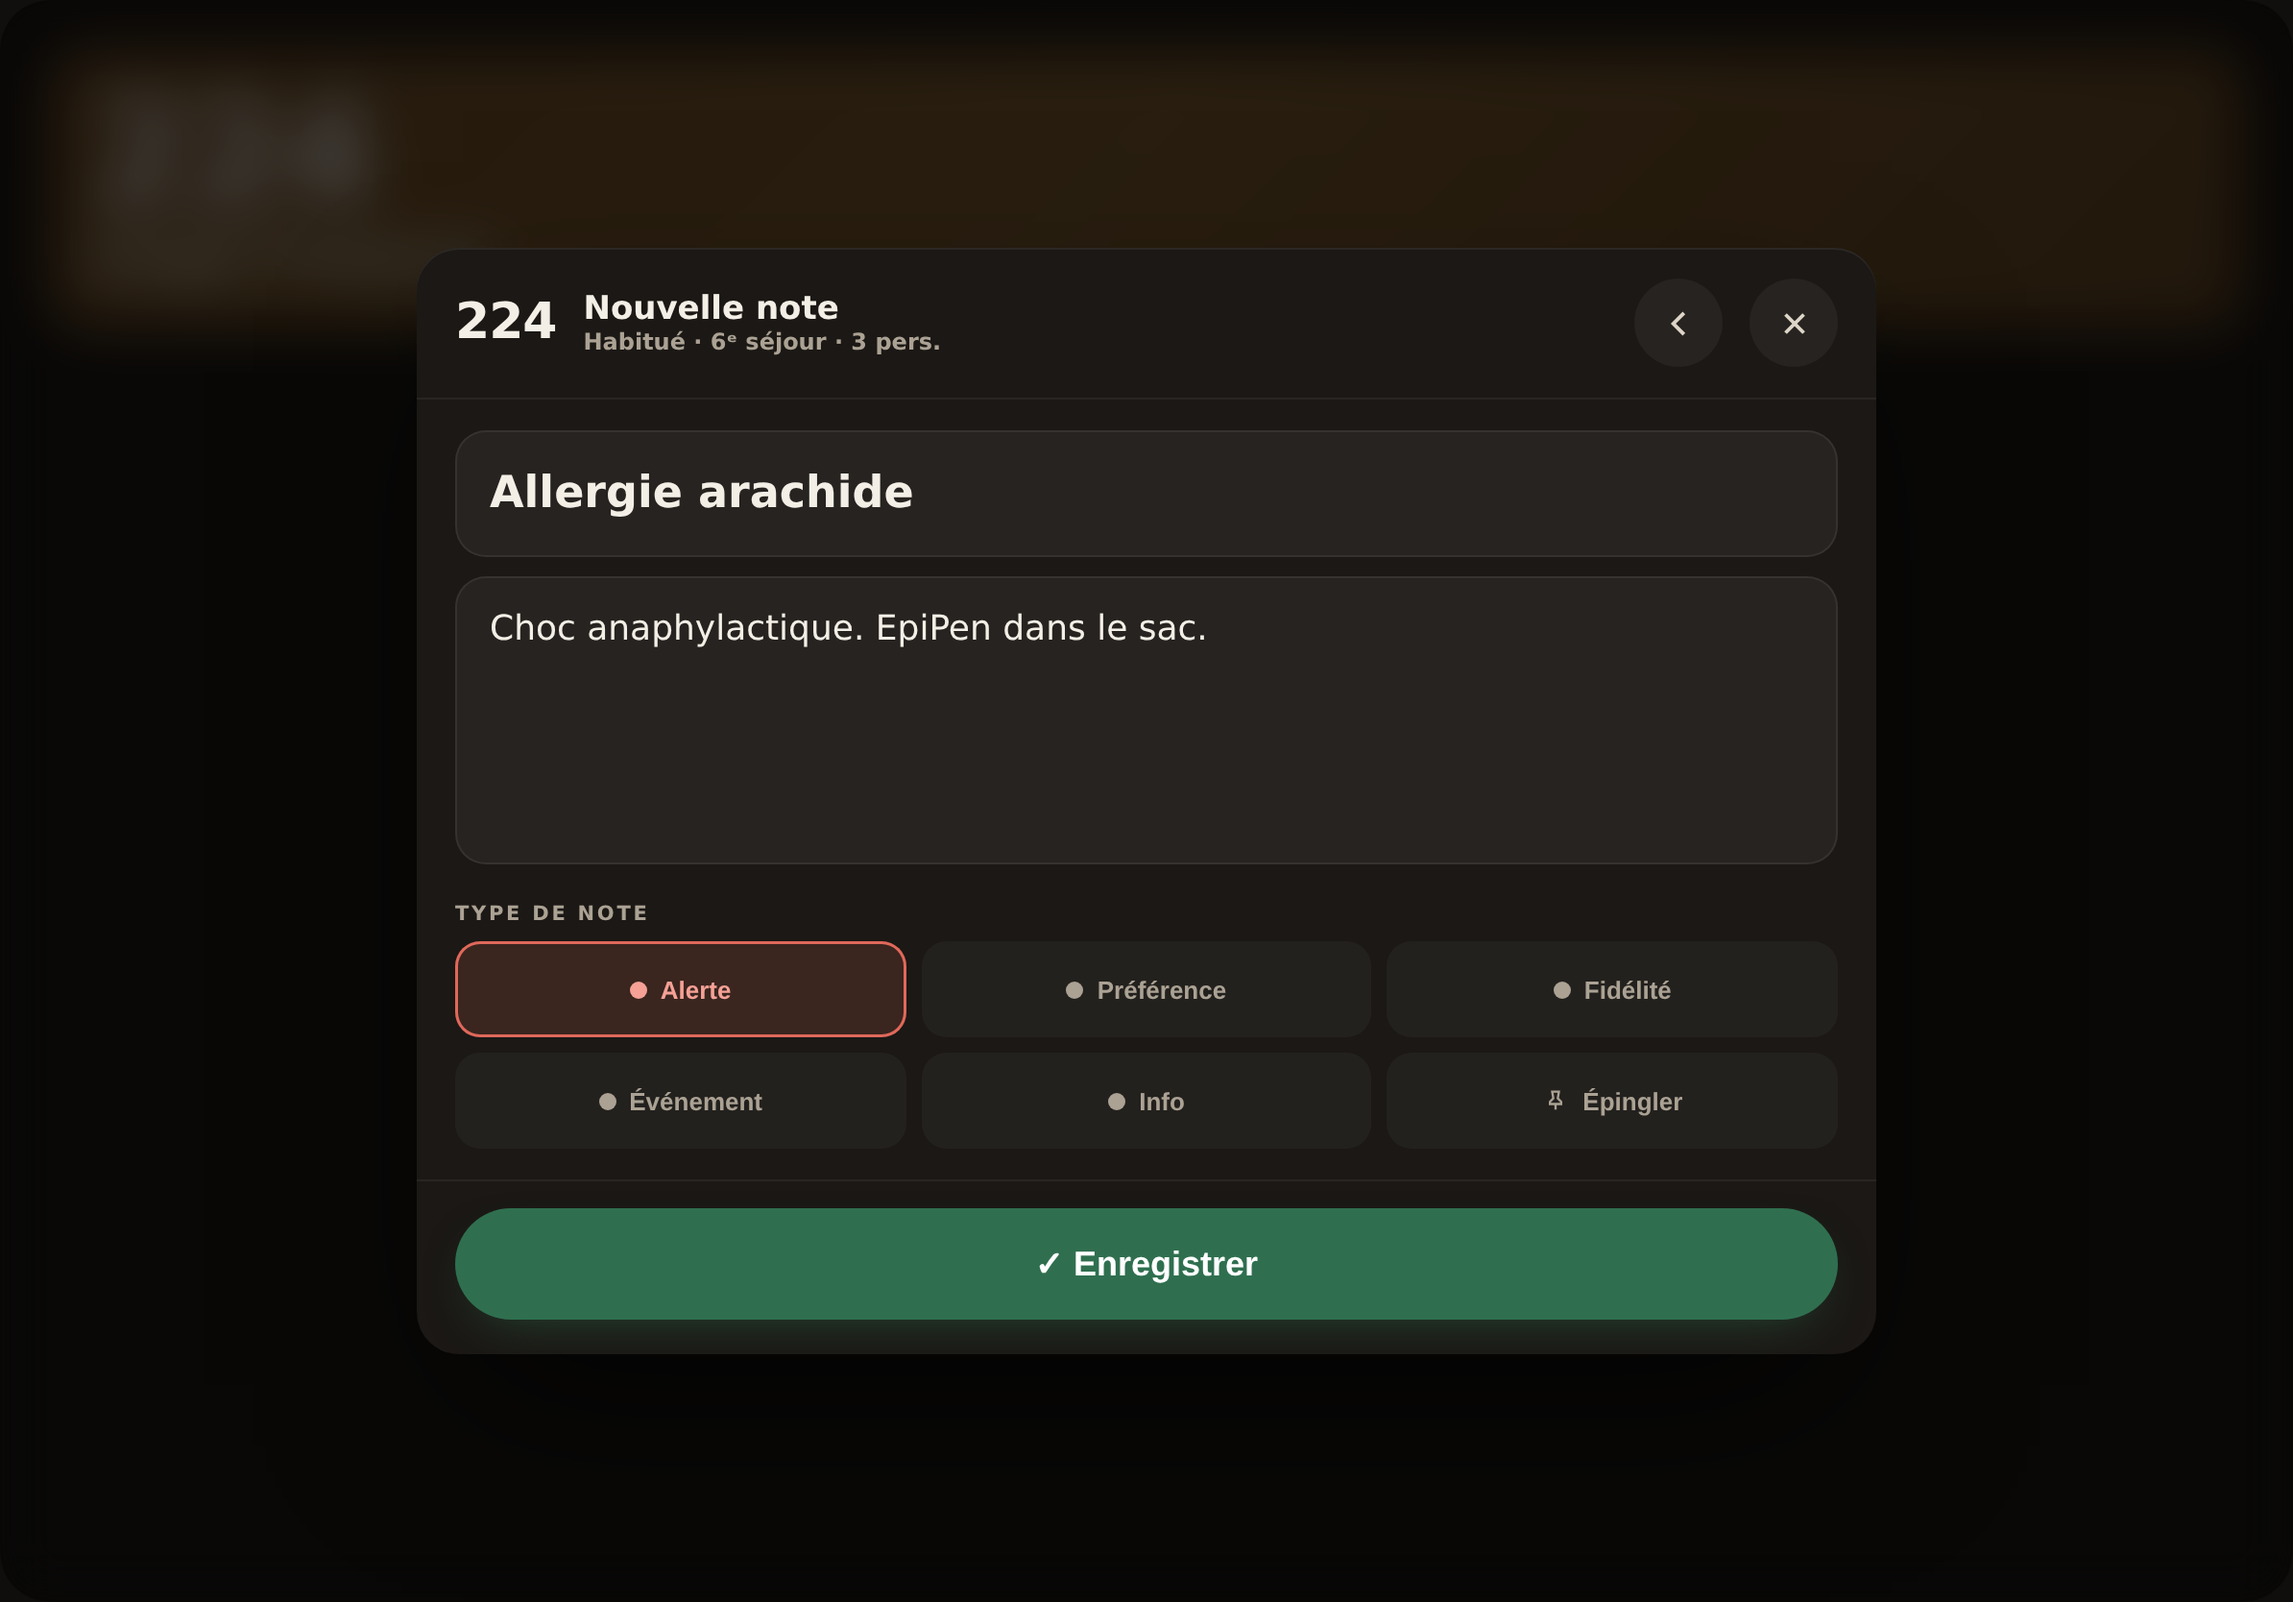
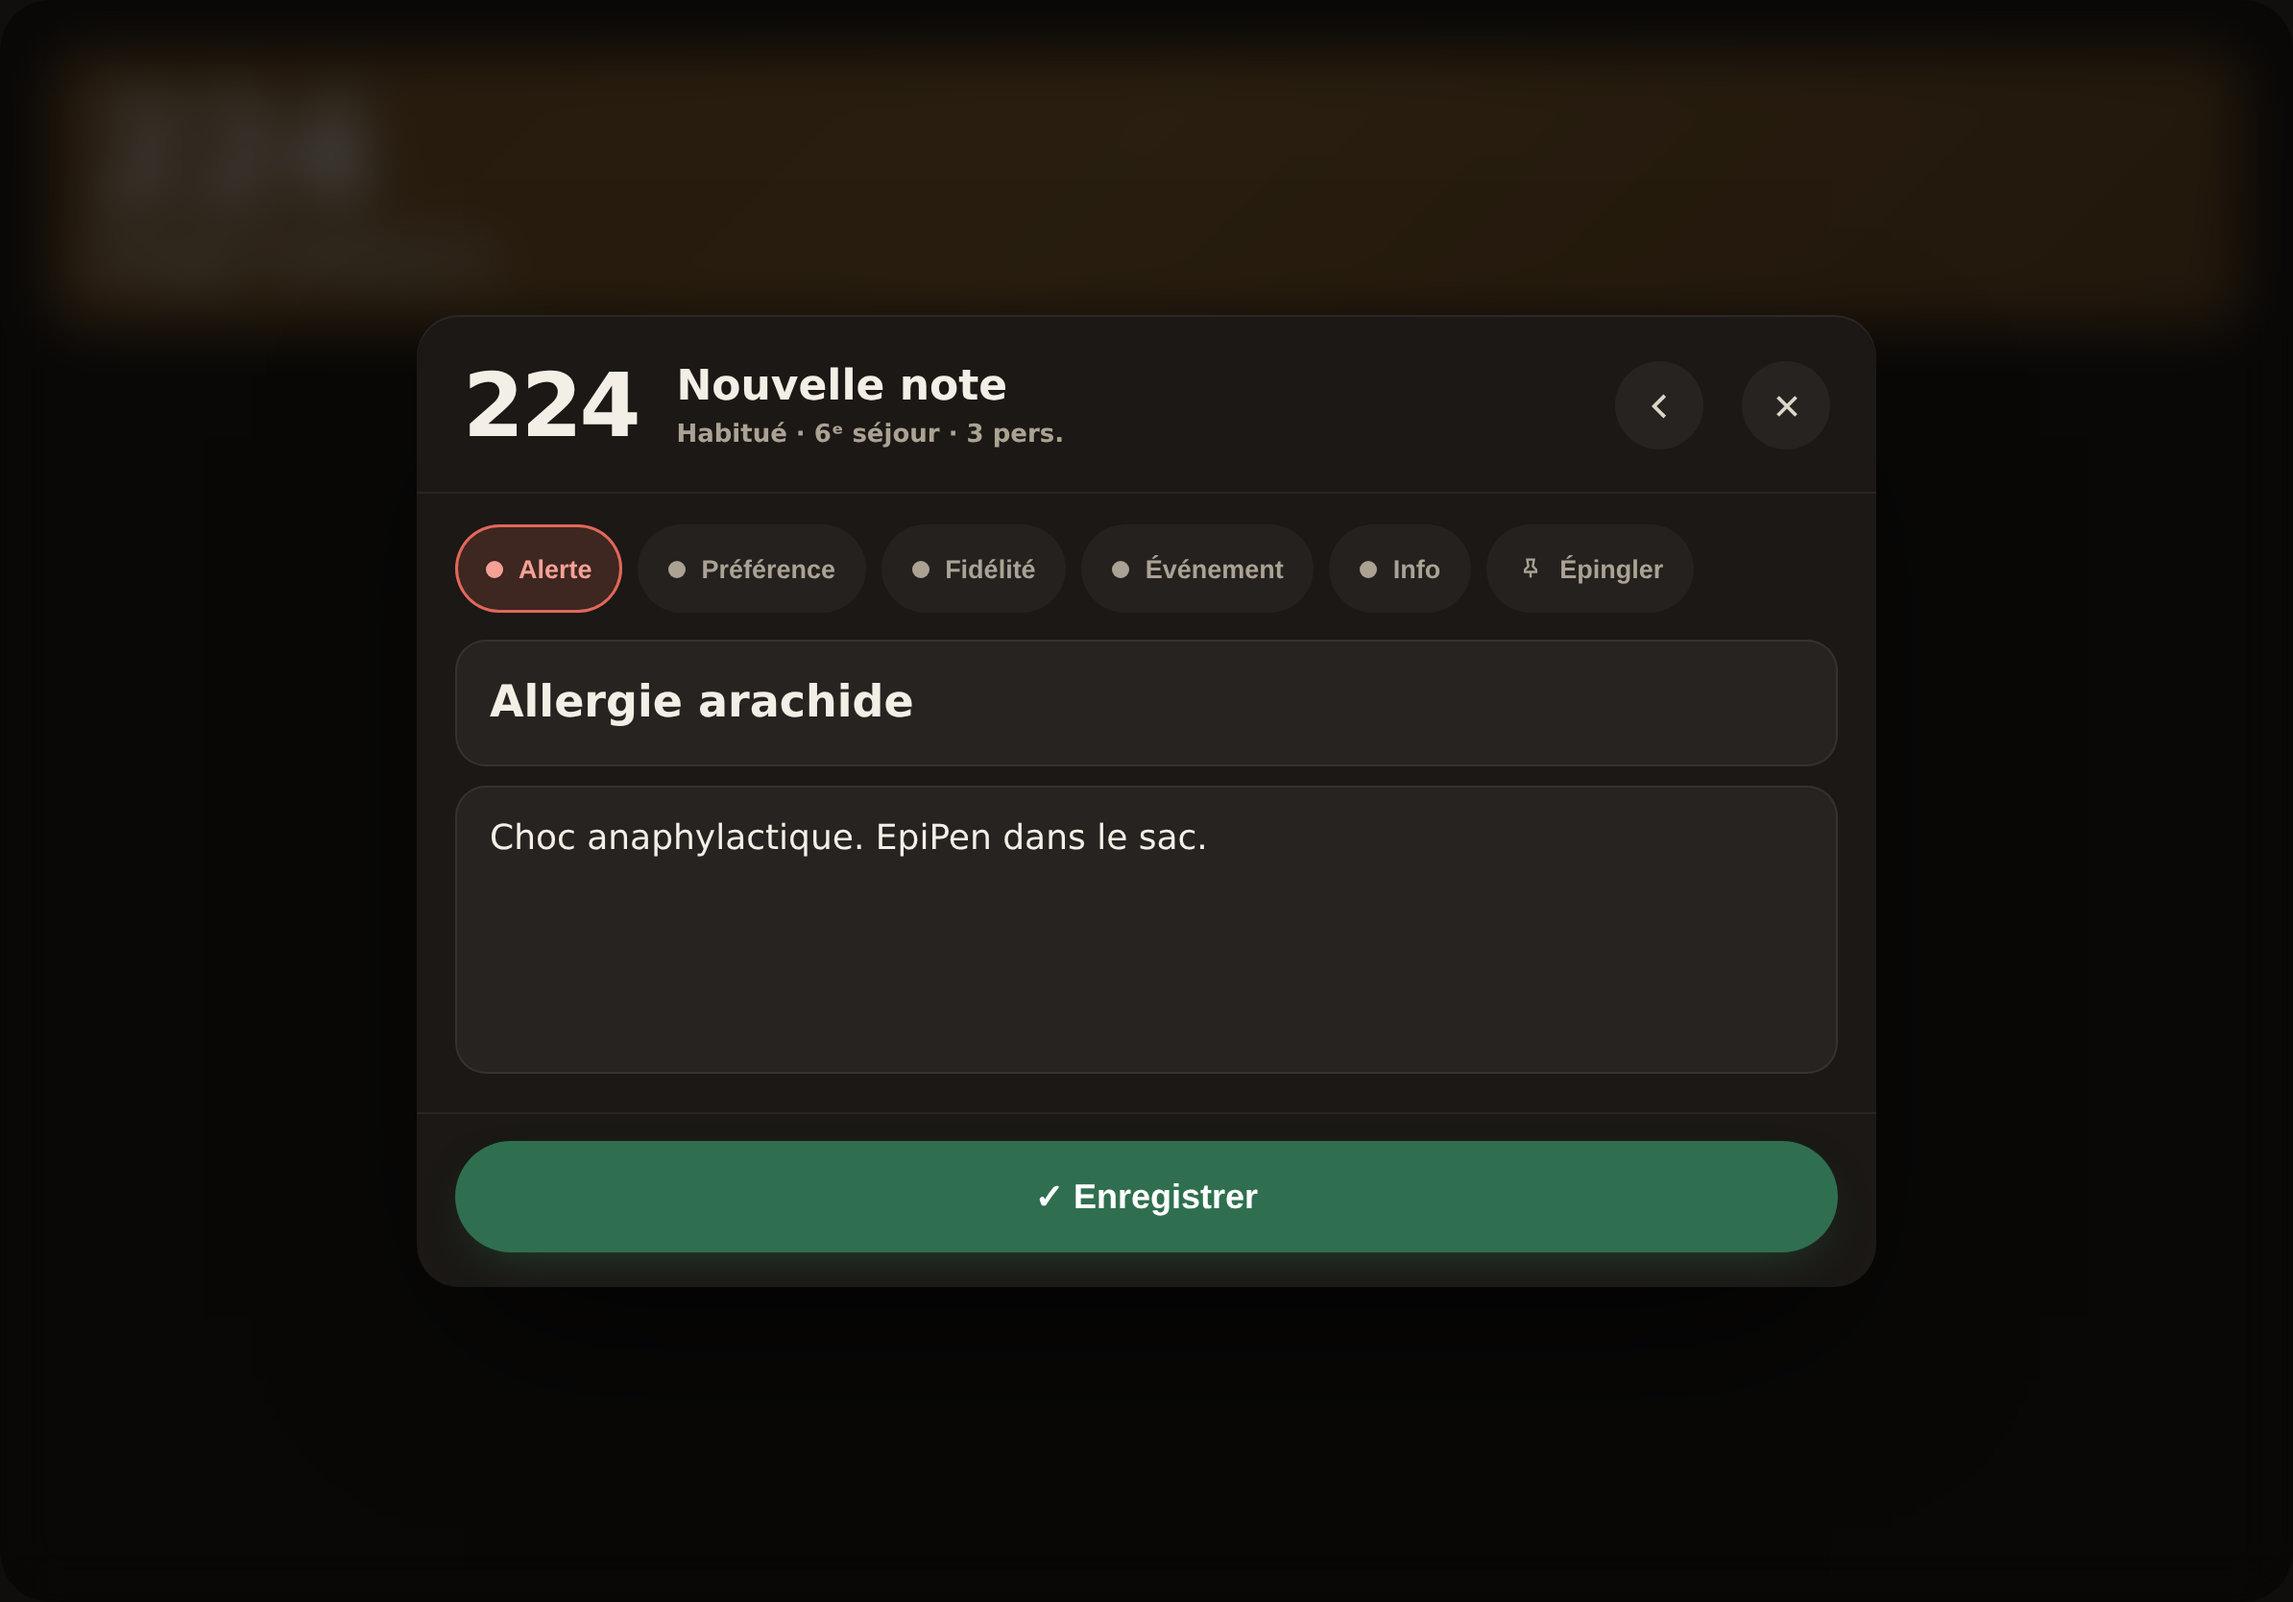
Notes v2: readable titles, bigger header, tone tabs on top, stable back button
Fixes a real contrast bug reported from the tablet: <button> resets colour
to the UA default, so the note titles rendered dark-on-dark and were
unreadable in dark mode. The checker had never been pointed at this
mockup — it is now generalised to take a filename, and a negative test
confirms it flags the exact two titles at 1.30:1 when the fix is removed.

Header: room number 26 to 46px with real vertical breathing room, guest
name 17 to 22px.

The tone chooser moves to the top as a single scrollable tab strip,
matching the list's filter row. That is a better shape than the two-row
grid of large chips, and it means my own R14a rule — 'fields must sit
above the tones' — encoded a solution rather than the property. What
actually matters is that classification never outweighs the note, which
is R14b and R14c. R14a will be dropped when this ports.

The back button used display:none, so ✕ slid sideways whenever back
appeared. The slot is now reserved: both controls keep one fixed place.

A search field over the notes appears only past 8 notes. For a guest with
three, it is furniture costing height in a panel already competing with
the keyboard.

Claude-Session: https://claude.ai/code/session_01PvjN1yrwGssKpuvjG4vcfR

diff --git a/mockups/notes-v2.html b/mockups/notes-v2.html
@@ -47,12 +47,13 @@
     animation:pop .24s cubic-bezier(.2,.9,.25,1)}
   @keyframes pop{from{opacity:0;transform:translate(-50%,-46%) scale(.97)}}
 
-  .phead{flex:none;display:flex;align-items:center;gap:14px;padding:16px 20px;
+  .phead{flex:none;display:flex;align-items:center;gap:20px;padding:24px 24px 22px;
     border-bottom:1px solid rgba(255,255,255,.06)}
-  .phead .rm{font-size:26px;font-weight:800;letter-spacing:-.02em;font-variant-numeric:tabular-nums}
+  .phead .rm{font-size:46px;font-weight:800;letter-spacing:-.035em;line-height:1;
+    font-variant-numeric:tabular-nums}
   .phead .who{flex:1;min-width:0}
-  .phead .nm{font-size:17px;font-weight:700;white-space:nowrap;overflow:hidden;text-overflow:ellipsis}
-  .phead .sub{font-size:12px;color:var(--muted);font-weight:600}
+  .phead .nm{font-size:22px;font-weight:700;line-height:1.25;white-space:nowrap;overflow:hidden;text-overflow:ellipsis}
+  .phead .sub{font-size:13px;color:var(--muted);font-weight:600;margin-top:3px}
   .icon{width:46px;height:46px;flex:none;border-radius:50%;border:none;cursor:pointer;
     display:grid;place-items:center;color:var(--ink-2);
     background:rgba(255,255,255,.05)}
@@ -63,11 +64,23 @@
   .pfoot{flex:none;padding:14px 20px 18px;border-top:1px solid rgba(255,255,255,.06)}
 
   /* list */
+  /* A search field only appears once the list is long enough to need one.
+     For a guest with three notes it is furniture that costs height in a panel
+     already competing with the keyboard. */
+  .nsearch{display:flex;align-items:center;gap:11px;padding:0 16px;min-height:52px;
+    border-radius:var(--r-md);margin-bottom:11px;background:rgba(255,255,255,.05);
+    box-shadow:inset 0 0 0 1px rgba(255,255,255,.07)}
+  body.light .nsearch{background:#FBF7F0;box-shadow:inset 0 0 0 1px rgba(42,38,32,.12)}
+  .nsearch svg{width:19px;height:19px;color:var(--muted);flex:none}
+  .nsearch input{flex:1;min-width:0;border:none;outline:none;background:none;font:inherit;
+    font-size:16px;font-weight:700;color:var(--ink)}
+  .nsearch input::placeholder{font-family:'Iowan Old Style','Palatino Linotype',Palatino,Georgia,serif;
+    font-style:italic;font-weight:400;color:var(--muted)}
   .filters{display:flex;gap:7px;overflow-x:auto;padding-bottom:12px}
-  .fil{flex:none;min-height:44px;padding:0 14px;border-radius:999px;border:none;cursor:pointer;
+  .fil{color:var(--muted);flex:none;min-height:44px;padding:0 14px;border-radius:999px;border:none;cursor:pointer;
     font-size:12.5px;font-weight:800;background:rgba(255,255,255,.04);color:var(--muted)}
   body.light .fil{background:rgba(42,38,32,.05)}
-  .note{position:relative;width:100%;text-align:left;display:flex;gap:13px;align-items:flex-start;
+  .note{color:var(--ink);position:relative;width:100%;text-align:left;display:flex;gap:13px;align-items:flex-start;
     padding:14px 16px 14px 18px;border-radius:var(--r-md);cursor:pointer;margin-bottom:9px;
     background:rgba(255,255,255,.035);border:1px solid rgba(255,255,255,.05);overflow:hidden}
   body.light .note{background:#FFF;border:1px solid rgba(42,38,32,.09)}
@@ -99,8 +112,17 @@
     font-style:italic;font-weight:400;color:var(--muted);opacity:.8}
   .tlabel{font-size:10.5px;letter-spacing:.13em;text-transform:uppercase;font-weight:800;
     color:var(--muted);margin:16px 0 8px}
+  /* One scrollable row. Keeping it to a single compact strip is what stops
+     classification outweighing the note, not where it sits on the panel. */
+  .tabs{display:flex;gap:8px;overflow-x:auto;padding-bottom:14px;scrollbar-width:none}
+  .tabs::-webkit-scrollbar{display:none}
+  .tab{color:var(--muted);flex:none;min-height:46px;padding:0 16px;border:none;border-radius:999px;
+    cursor:pointer;font-size:13.5px;font-weight:800;display:flex;align-items:center;gap:8px;
+    background:rgba(255,255,255,.045)}
+  body.light .tab{background:rgba(42,38,32,.055)}
+  .tab .dot{width:9px;height:9px;border-radius:50%}
   .tones{display:grid;grid-template-columns:repeat(3,1fr);gap:8px}
-  .tone{min-height:50px;border:none;border-radius:13px;cursor:pointer;font-size:13px;font-weight:800;
+  .tone{color:var(--muted);min-height:50px;border:none;border-radius:13px;cursor:pointer;font-size:13px;font-weight:800;
     display:flex;align-items:center;justify-content:center;gap:7px;
     background:rgba(255,255,255,.04);color:var(--muted)}
   body.light .tone{background:rgba(42,38,32,.05)}
@@ -142,7 +164,7 @@
         <div class="nm" id="hnm">Notes — Angel Polanco</div>
         <div class="sub" id="hsub">Habitué · 6ᵉ séjour · 3 pers.</div>
       </div>
-      <button class="icon" id="back" style="display:none" aria-label="Retour">
+      <button class="icon" id="back" style="visibility:hidden" aria-label="Retour">
         <svg viewBox="0 0 24 24" fill="none" stroke="currentColor" stroke-width="2.4"><path d="M15 5l-7 7 7 7"/></svg></button>
       <button class="icon" aria-label="Fermer">
         <svg viewBox="0 0 24 24" fill="none" stroke="currentColor" stroke-width="2.4"><path d="M6 6l12 12M18 6L6 18"/></svg></button>
@@ -174,7 +196,7 @@ const PIN=`<svg viewBox="0 0 24 24" width="14" height="14" fill="none" stroke="c
 function go(v){ view=v; render(); }
 
 function render(){
-  $("back").style.display = view==="list" ? "none" : "grid";
+  $("back").style.visibility = view === "list" ? "hidden" : "visible";
   $("hnm").textContent = view==="compose" ? (editing?"Modifier la note":"Nouvelle note")
                        : view==="detail" ? "Note" : "Notes — Angel Polanco";
   if(view==="list") return renderList();
@@ -182,10 +204,19 @@ function render(){
   renderDetail();
 }
 
+const SEARCH_AFTER = 8;   // below this, the tabs are enough
+let q = "";
 function renderList(){
-  const sorted=[...NOTES].sort((a,b)=>(a.t==="alert"?0:a.pin?1:2)-(b.t==="alert"?0:b.pin?1:2));
+  const fold=(x)=>x.normalize("NFD").replace(/[\u0300-\u036f]/g,"").toLowerCase();
+  const hit=(n)=>!q || fold(n.ti+" "+n.bo).includes(fold(q));
+  const sorted=[...NOTES].filter(hit)
+    .sort((a,b)=>(a.t==="alert"?0:a.pin?1:2)-(b.t==="alert"?0:b.pin?1:2));
   $("pbody").innerHTML =
-    `<div class="filters">${["Tout","Alerte","Préférence","Fidélité","Événement","Info"]
+    (NOTES.length > SEARCH_AFTER ? `<div class="nsearch">
+      <svg viewBox="0 0 24 24" fill="none" stroke="currentColor" stroke-width="2.2"><circle cx="11" cy="11" r="7"/><path d="M20 20l-3.5-3.5"/></svg>
+      <input id="nq" placeholder="Chercher dans les notes…" value="${q}">
+    </div>` : "")
+    + `<div class="filters">${["Tout","Alerte","Préférence","Fidélité","Événement","Info"]
       .map((f,i)=>`<button class="fil" ${i===0?'style="background:rgba(255,255,255,.09);color:var(--ink)"':''}>${f}</button>`).join("")}</div>`
     + (sorted.length ? sorted.map(n=>{
         const T=TONES[n.t];
@@ -200,6 +231,8 @@ function renderList(){
         </button>`;}).join("")
       : `<div class="empty">Aucune note pour ce client.<br>Allergie, préférence, événement…</div>`);
   $("pfoot").innerHTML = `<button class="cta" onclick="newNote()">+ Nouvelle note</button>`;
+  const qi = document.getElementById("nq");
+  if(qi){ qi.oninput = (e)=>{ q = e.target.value; renderList(); qi.focus(); }; }
   fit();
 }
 
@@ -207,26 +240,30 @@ function newNote(){ editing=null; tone="info"; go("compose"); }
 
 function renderCompose(){
   $("pbody").innerHTML = `
-    <input class="fld" id="ttl" placeholder="Titre — ex. Allergie arachide" value="${editing?editing.ti:""}">
-    <textarea class="fld" id="bdy" placeholder="Ce que la réception doit savoir…">${editing?editing.bo:""}</textarea>
-    <div class="tlabel">Type de note</div>
-    <div class="tones">${Object.entries(TONES).map(([k,T])=>`
-      <button class="tone" data-t="${k}" onclick="pick('${k}')"
-        style="${tone===k?`background:color-mix(in srgb,${T.s} 16%,transparent);color:${T.c};box-shadow:inset 0 0 0 1.5px ${T.s}`:""}">
+    <div class="tabs">${Object.entries(TONES).map(([k,T])=>`
+      <button class="tab" data-t="${k}" onclick="pick('${k}')"
+        style="${tone===k?`background:color-mix(in srgb,${T.s} 18%,transparent);color:${T.c};box-shadow:inset 0 0 0 1.5px ${T.s}`:""}">
         <span class="dot" style="background:${tone===k?T.c:"var(--muted)"}"></span>${T.l}</button>`).join("")}
-      <button class="tone" onclick="this.classList.toggle('on');this.style.cssText=this.classList.contains('on')?'background:rgba(221,156,40,.16);color:var(--gold-ink);box-shadow:inset 0 0 0 1.5px var(--gold)':''">${PIN} Épingler</button>
-    </div>`;
+      <button class="tab" id="pinbtn" onclick="togglePin(this)">${PIN} Épingler</button>
+    </div>
+    <input class="fld" id="ttl" placeholder="Titre — ex. Allergie arachide" value="${editing?editing.ti:""}">
+    <textarea class="fld" id="bdy" placeholder="Ce que la réception doit savoir…">${editing?editing.bo:""}</textarea>`;
   $("pfoot").innerHTML = `<button class="cta" onclick="save()">✓ Enregistrer</button>`;
   setTimeout(()=>$("ttl").focus(),60);
   fit();
 }
 
+function togglePin(b){
+  b.classList.toggle("on");
+  b.style.cssText = b.classList.contains("on")
+    ? "background:rgba(221,156,40,.16);color:var(--gold-ink);box-shadow:inset 0 0 0 1.5px var(--gold)" : "";
+}
 function pick(k){
   tone = k;
-  document.querySelectorAll(".tones .tone[data-t]").forEach(btn=>{
+  document.querySelectorAll(".tabs .tab[data-t]").forEach(btn=>{
     const T = TONES[btn.dataset.t], on = btn.dataset.t === k;
     btn.style.cssText = on
-      ? `background:color-mix(in srgb,${T.s} 16%,transparent);color:${T.c};box-shadow:inset 0 0 0 1.5px ${T.s}`
+      ? `background:color-mix(in srgb,${T.s} 18%,transparent);color:${T.c};box-shadow:inset 0 0 0 1.5px ${T.s}`
       : "";
     btn.querySelector(".dot").style.background = on ? T.c : "var(--muted)";
   });
